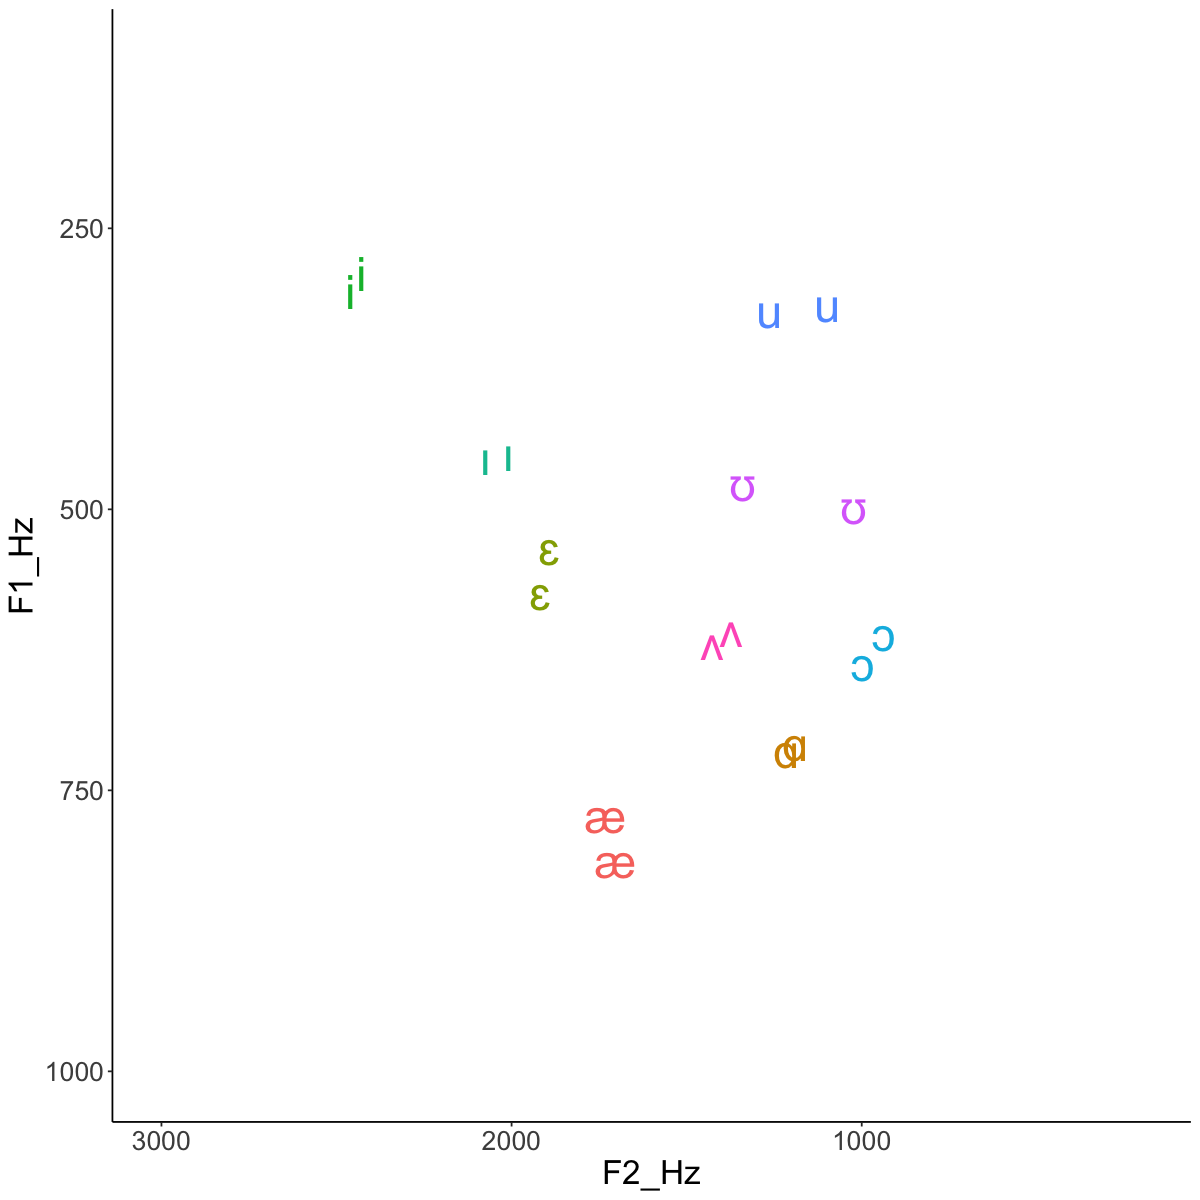
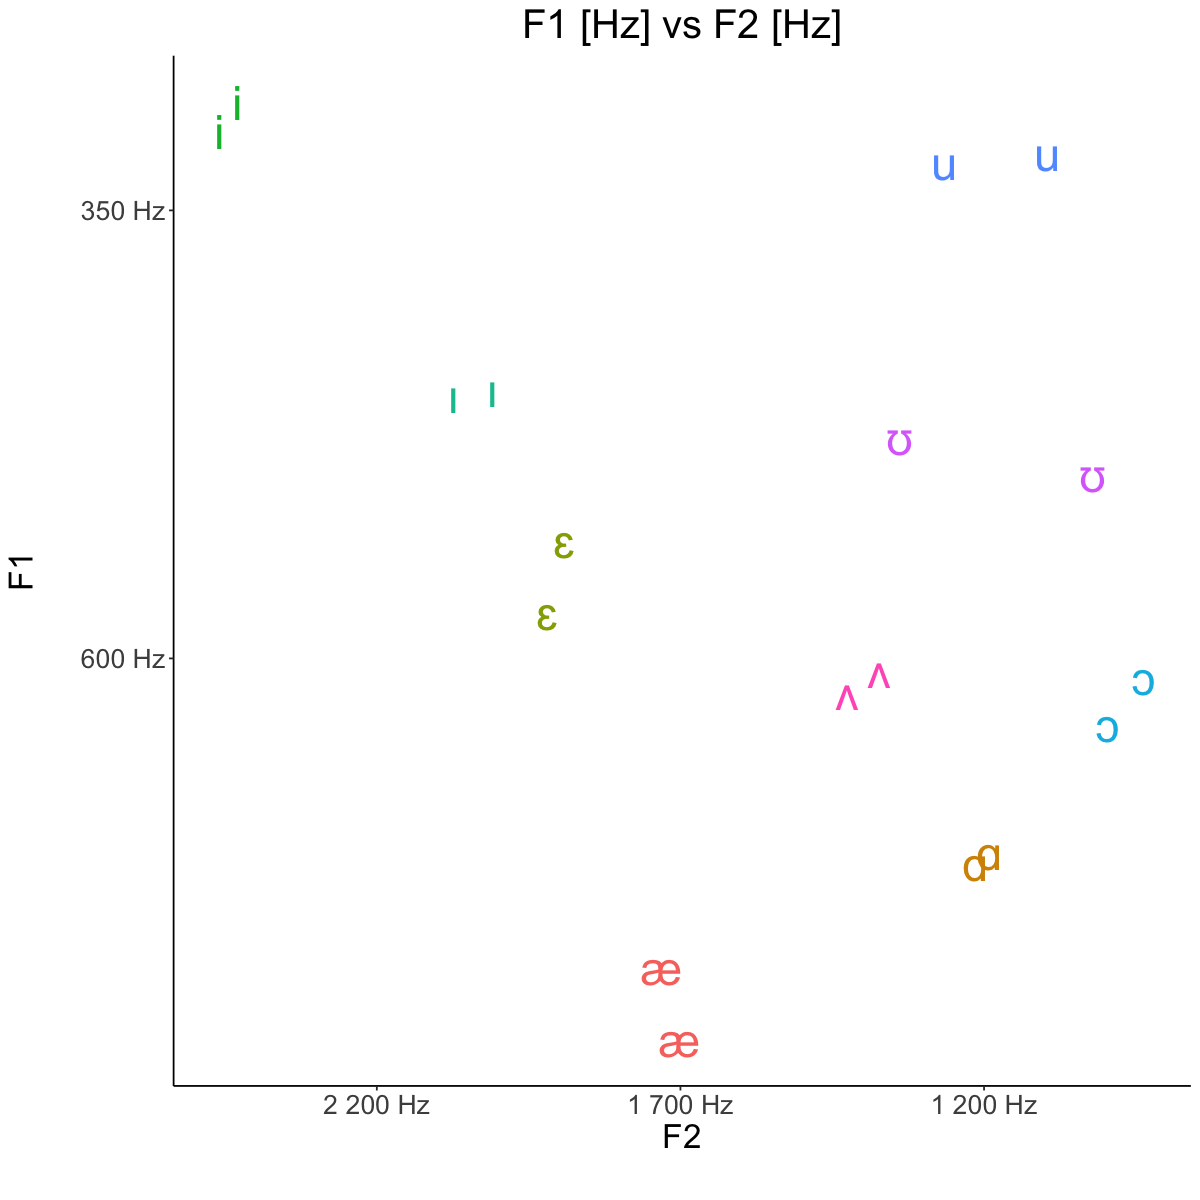
gh-pages update

diff --git a/docs/lab3/lab3.html b/docs/lab3/lab3.html
@@ -505,13 +505,13 @@ title="Fullscreen mode"
 <section id="ae">
 <h3><a class="toc-backref" href="#id9">æ</a><a class="headerlink" href="#ae" title="Permalink to this headline">#</a></h3>
 <div class="sd-tab-set docutils">
-<input checked="checked" id="b90f475b-c227-4ca7-a179-557f681eaf2c" name="bc3d64f1-cde7-45e5-b159-28df1ad83e5b" type="radio">
-</input><label class="sd-tab-label" for="b90f475b-c227-4ca7-a179-557f681eaf2c">
+<input checked="checked" id="59427409-ad6a-4f33-aca7-5d772b9723c6" name="41dedebe-59c8-4f26-9457-32b5082c9b2c" type="radio">
+</input><label class="sd-tab-label" for="59427409-ad6a-4f33-aca7-5d772b9723c6">
 hæd</label><div class="sd-tab-content docutils">
 <p><img alt="" src="../_images/00.png" /></p>
 </div>
-<input id="2550aa11-9862-42bf-a85c-7015e544fd33" name="bc3d64f1-cde7-45e5-b159-28df1ad83e5b" type="radio">
-</input><label class="sd-tab-label" for="2550aa11-9862-42bf-a85c-7015e544fd33">
+<input id="587f78a5-5529-4ee9-a47a-e30b5c9a5852" name="41dedebe-59c8-4f26-9457-32b5082c9b2c" type="radio">
+</input><label class="sd-tab-label" for="587f78a5-5529-4ee9-a47a-e30b5c9a5852">
 bæt</label><div class="sd-tab-content docutils">
 <p><img alt="" src="../_images/09.png" /></p>
 </div>
@@ -520,13 +520,13 @@ bæt</label><div class="sd-tab-content docutils">
 <section id="id1">
 <h3><a class="toc-backref" href="#id10">ɛ</a><a class="headerlink" href="#id1" title="Permalink to this headline">#</a></h3>
 <div class="sd-tab-set docutils">
-<input checked="checked" id="3898b9a2-eff7-4307-80b4-2d3c65c983b3" name="27859440-0435-40cb-a339-9f17e007d54d" type="radio">
-</input><label class="sd-tab-label" for="3898b9a2-eff7-4307-80b4-2d3c65c983b3">
+<input checked="checked" id="2ce1b0a4-5a2c-4a71-970e-6194cb7bc5da" name="8b02a1eb-c24d-4f2a-964a-23789513aa23" type="radio">
+</input><label class="sd-tab-label" for="2ce1b0a4-5a2c-4a71-970e-6194cb7bc5da">
 hɛd</label><div class="sd-tab-content docutils">
 <p><img alt="" src="../_images/01.png" /></p>
 </div>
-<input id="30427472-263d-41cf-bac2-41baee08da1f" name="27859440-0435-40cb-a339-9f17e007d54d" type="radio">
-</input><label class="sd-tab-label" for="30427472-263d-41cf-bac2-41baee08da1f">
+<input id="c674f008-fb3c-4718-92fa-22e264ffc106" name="8b02a1eb-c24d-4f2a-964a-23789513aa23" type="radio">
+</input><label class="sd-tab-label" for="c674f008-fb3c-4718-92fa-22e264ffc106">
 bɛd</label><div class="sd-tab-content docutils">
 <p><img alt="" src="../_images/10.png" /></p>
 </div>
@@ -535,13 +535,13 @@ bɛd</label><div class="sd-tab-content docutils">
 <section id="i">
 <h3><a class="toc-backref" href="#id11">i</a><a class="headerlink" href="#i" title="Permalink to this headline">#</a></h3>
 <div class="sd-tab-set docutils">
-<input checked="checked" id="14cf06ec-302e-436e-b1a9-d8e500655a06" name="222d36fb-0291-41b3-a5c9-38693ac08792" type="radio">
-</input><label class="sd-tab-label" for="14cf06ec-302e-436e-b1a9-d8e500655a06">
+<input checked="checked" id="d097c97e-7eb3-4c6f-b550-326356c9235f" name="69238847-a829-4b9b-9e04-14e5ba8921cb" type="radio">
+</input><label class="sd-tab-label" for="d097c97e-7eb3-4c6f-b550-326356c9235f">
 hid</label><div class="sd-tab-content docutils">
 <p><img alt="" src="../_images/02.png" /></p>
 </div>
-<input id="094bad0a-d577-43eb-89ad-cfeaa92dc98e" name="222d36fb-0291-41b3-a5c9-38693ac08792" type="radio">
-</input><label class="sd-tab-label" for="094bad0a-d577-43eb-89ad-cfeaa92dc98e">
+<input id="1d37800a-a63b-4084-8abc-ef8e0a130f35" name="69238847-a829-4b9b-9e04-14e5ba8921cb" type="radio">
+</input><label class="sd-tab-label" for="1d37800a-a63b-4084-8abc-ef8e0a130f35">
 bid</label><div class="sd-tab-content docutils">
 <p><img alt="" src="../_images/11.png" /></p>
 </div>
@@ -550,13 +550,13 @@ bid</label><div class="sd-tab-content docutils">
 <section id="id2">
 <h3><a class="toc-backref" href="#id12">ɪ</a><a class="headerlink" href="#id2" title="Permalink to this headline">#</a></h3>
 <div class="sd-tab-set docutils">
-<input checked="checked" id="4bfc19ac-e36e-4a30-899d-568a056f9288" name="386a86a6-bd83-467e-9cb5-841dde7a3149" type="radio">
-</input><label class="sd-tab-label" for="4bfc19ac-e36e-4a30-899d-568a056f9288">
+<input checked="checked" id="d1b4955d-e058-492c-ad12-a745861f0265" name="e6d31bc5-d145-45be-bcb2-f25cdb21bb3b" type="radio">
+</input><label class="sd-tab-label" for="d1b4955d-e058-492c-ad12-a745861f0265">
 hɪd</label><div class="sd-tab-content docutils">
 <p><img alt="" src="../_images/03.png" /></p>
 </div>
-<input id="cdf249d1-66b8-4d38-87d6-a2b0f7378284" name="386a86a6-bd83-467e-9cb5-841dde7a3149" type="radio">
-</input><label class="sd-tab-label" for="cdf249d1-66b8-4d38-87d6-a2b0f7378284">
+<input id="a888b891-1513-491c-a44b-ed62dbf1f6d4" name="e6d31bc5-d145-45be-bcb2-f25cdb21bb3b" type="radio">
+</input><label class="sd-tab-label" for="a888b891-1513-491c-a44b-ed62dbf1f6d4">
 bɪd</label><div class="sd-tab-content docutils">
 <p><img alt="" src="../_images/12.png" /></p>
 </div>
@@ -565,13 +565,13 @@ bɪd</label><div class="sd-tab-content docutils">
 <section id="id3">
 <h3><a class="toc-backref" href="#id13">ɑ</a><a class="headerlink" href="#id3" title="Permalink to this headline">#</a></h3>
 <div class="sd-tab-set docutils">
-<input checked="checked" id="da9102c9-7412-48ce-a099-5e8246ed6412" name="68861c16-686f-4a40-9326-b36b6b712546" type="radio">
-</input><label class="sd-tab-label" for="da9102c9-7412-48ce-a099-5e8246ed6412">
+<input checked="checked" id="6339cd83-75d3-4f53-91d3-f6d171964a41" name="ac63cf30-efca-46a7-bcc9-e3e59e6961dc" type="radio">
+</input><label class="sd-tab-label" for="6339cd83-75d3-4f53-91d3-f6d171964a41">
 hɑd</label><div class="sd-tab-content docutils">
 <p><img alt="" src="../_images/04.png" /></p>
 </div>
-<input id="28e57349-117a-4f39-abd6-4c209656d1ca" name="68861c16-686f-4a40-9326-b36b6b712546" type="radio">
-</input><label class="sd-tab-label" for="28e57349-117a-4f39-abd6-4c209656d1ca">
+<input id="f66ff8f1-0cb1-43be-8d3d-e947488f2a4e" name="ac63cf30-efca-46a7-bcc9-e3e59e6961dc" type="radio">
+</input><label class="sd-tab-label" for="f66ff8f1-0cb1-43be-8d3d-e947488f2a4e">
 bɑd</label><div class="sd-tab-content docutils">
 <p><img alt="" src="../_images/13.png" /></p>
 </div>
@@ -580,13 +580,13 @@ bɑd</label><div class="sd-tab-content docutils">
 <section id="id4">
 <h3><a class="toc-backref" href="#id14">ʊ</a><a class="headerlink" href="#id4" title="Permalink to this headline">#</a></h3>
 <div class="sd-tab-set docutils">
-<input checked="checked" id="d5ab4ffc-6516-42fc-bdf3-777234d83f5a" name="5a91622b-910e-4d17-a9db-25c75b739578" type="radio">
-</input><label class="sd-tab-label" for="d5ab4ffc-6516-42fc-bdf3-777234d83f5a">
+<input checked="checked" id="793fafac-7ccc-4397-a0c8-8fa2ff186052" name="1c68036d-507e-44ab-9837-d8851e705a35" type="radio">
+</input><label class="sd-tab-label" for="793fafac-7ccc-4397-a0c8-8fa2ff186052">
 hʊd</label><div class="sd-tab-content docutils">
 <p><img alt="" src="../_images/05.png" /></p>
 </div>
-<input id="44924062-d44e-4593-9959-119be4300cbb" name="5a91622b-910e-4d17-a9db-25c75b739578" type="radio">
-</input><label class="sd-tab-label" for="44924062-d44e-4593-9959-119be4300cbb">
+<input id="98e63952-7874-4f9c-af1e-85c900c283fc" name="1c68036d-507e-44ab-9837-d8851e705a35" type="radio">
+</input><label class="sd-tab-label" for="98e63952-7874-4f9c-af1e-85c900c283fc">
 bʊk</label><div class="sd-tab-content docutils">
 <p><img alt="" src="../_images/14.png" /></p>
 </div>
@@ -595,13 +595,13 @@ bʊk</label><div class="sd-tab-content docutils">
 <section id="id5">
 <h3><a class="toc-backref" href="#id15">ʌ</a><a class="headerlink" href="#id5" title="Permalink to this headline">#</a></h3>
 <div class="sd-tab-set docutils">
-<input checked="checked" id="d7f61246-18c7-4c2d-9001-65cc803dfe6a" name="3ea442e2-15f8-42eb-a46e-4593db1c7e7f" type="radio">
-</input><label class="sd-tab-label" for="d7f61246-18c7-4c2d-9001-65cc803dfe6a">
+<input checked="checked" id="e8c5cb20-f684-42ec-9e19-442cc4276959" name="29f49c78-0203-4829-b396-0e759534eaec" type="radio">
+</input><label class="sd-tab-label" for="e8c5cb20-f684-42ec-9e19-442cc4276959">
 hʌd</label><div class="sd-tab-content docutils">
 <p><img alt="" src="../_images/06.png" /></p>
 </div>
-<input id="74b3f5d5-dbb1-48e2-af00-f0c6807df892" name="3ea442e2-15f8-42eb-a46e-4593db1c7e7f" type="radio">
-</input><label class="sd-tab-label" for="74b3f5d5-dbb1-48e2-af00-f0c6807df892">
+<input id="584ff750-8453-4bec-b368-05e93f7d2186" name="29f49c78-0203-4829-b396-0e759534eaec" type="radio">
+</input><label class="sd-tab-label" for="584ff750-8453-4bec-b368-05e93f7d2186">
 bʌd</label><div class="sd-tab-content docutils">
 <p><img alt="" src="../_images/15.png" /></p>
 </div>
@@ -610,13 +610,13 @@ bʌd</label><div class="sd-tab-content docutils">
 <section id="u">
 <h3><a class="toc-backref" href="#id16">u</a><a class="headerlink" href="#u" title="Permalink to this headline">#</a></h3>
 <div class="sd-tab-set docutils">
-<input checked="checked" id="85b32efb-984f-4bed-a110-4a5d7a93f482" name="02c75d0a-f60f-48dc-a7b6-0aa01b5186ba" type="radio">
-</input><label class="sd-tab-label" for="85b32efb-984f-4bed-a110-4a5d7a93f482">
+<input checked="checked" id="afb28d4e-1b53-4b78-b5c6-7304b32a5804" name="2bb87c69-2f11-4e47-aa1d-4129a32d7da2" type="radio">
+</input><label class="sd-tab-label" for="afb28d4e-1b53-4b78-b5c6-7304b32a5804">
 hud</label><div class="sd-tab-content docutils">
 <p><img alt="" src="../_images/07.png" /></p>
 </div>
-<input id="a27d841c-e6f5-4825-902e-22de9449606a" name="02c75d0a-f60f-48dc-a7b6-0aa01b5186ba" type="radio">
-</input><label class="sd-tab-label" for="a27d841c-e6f5-4825-902e-22de9449606a">
+<input id="e8a9a729-e09c-42b3-8d61-38a147be7abe" name="2bb87c69-2f11-4e47-aa1d-4129a32d7da2" type="radio">
+</input><label class="sd-tab-label" for="e8a9a729-e09c-42b3-8d61-38a147be7abe">
 bud</label><div class="sd-tab-content docutils">
 <p><img alt="" src="../_images/16.png" /></p>
 </div>
@@ -625,13 +625,13 @@ bud</label><div class="sd-tab-content docutils">
 <section id="id6">
 <h3><a class="toc-backref" href="#id17">ɔ</a><a class="headerlink" href="#id6" title="Permalink to this headline">#</a></h3>
 <div class="sd-tab-set docutils">
-<input checked="checked" id="ddea207f-725c-4865-a7a0-507dbd3004c3" name="93ddf3f6-dc2c-458d-b533-085b362e7dac" type="radio">
-</input><label class="sd-tab-label" for="ddea207f-725c-4865-a7a0-507dbd3004c3">
+<input checked="checked" id="7f8c0a8e-69b3-4d4d-b03d-a8a9c215addb" name="5eeae843-aaf2-47cb-b20c-23065c9ee9fe" type="radio">
+</input><label class="sd-tab-label" for="7f8c0a8e-69b3-4d4d-b03d-a8a9c215addb">
 hɔd</label><div class="sd-tab-content docutils">
 <p><img alt="" src="../_images/08.png" /></p>
 </div>
-<input id="83d61f84-93be-49da-b443-cc27ed620453" name="93ddf3f6-dc2c-458d-b533-085b362e7dac" type="radio">
-</input><label class="sd-tab-label" for="83d61f84-93be-49da-b443-cc27ed620453">
+<input id="3c890970-b2e7-4ef1-8653-41a088317dc6" name="5eeae843-aaf2-47cb-b20c-23065c9ee9fe" type="radio">
+</input><label class="sd-tab-label" for="3c890970-b2e7-4ef1-8653-41a088317dc6">
 bɔt</label><div class="sd-tab-content docutils">
 <p><img alt="" src="../_images/17.png" /></p>
 </div>
@@ -1160,13 +1160,21 @@ The following object is masked from ‘package:tidyr’:
 <div class="cell_input docutils container">
 <div class="highlight-r notranslate"><div class="highlight"><pre><span></span><span class="nf">options</span><span class="p">(</span><span class="n">repr.plot.width</span><span class="o">=</span><span class="m">10</span><span class="p">,</span> <span class="n">repr.plot.height</span><span class="o">=</span><span class="m">10</span><span class="p">)</span>
 
-<span class="n">plt</span> <span class="o">&lt;-</span> <span class="nf">ggplot</span><span class="p">(</span><span class="n">data</span><span class="o">=</span><span class="n">obs</span><span class="p">,</span> <span class="nf">aes</span><span class="p">(</span><span class="n">x</span><span class="o">=</span><span class="n">F2_Hz</span><span class="p">,</span> <span class="n">y</span><span class="o">=</span><span class="n">F1_Hz</span><span class="p">,</span> <span class="n">color</span><span class="o">=</span><span class="n">vowel</span><span class="p">,</span> <span class="n">label</span><span class="o">=</span><span class="n">vowel</span><span class="p">))</span> <span class="o">+</span>
+<span class="n">plt</span> <span class="o">&lt;-</span> <span class="nf">ggplot</span><span class="p">(</span><span class="n">obs</span><span class="p">,</span> <span class="nf">aes</span><span class="p">(</span><span class="n">x</span><span class="o">=</span><span class="n">F2_Hz</span><span class="p">,</span> <span class="n">y</span><span class="o">=</span><span class="n">F1_Hz</span><span class="p">,</span> <span class="n">label</span><span class="o">=</span><span class="n">vowel</span><span class="p">,</span> <span class="n">color</span><span class="o">=</span><span class="n">vowel</span><span class="p">))</span> <span class="o">+</span>
   <span class="nf">geom_text</span><span class="p">(</span><span class="n">size</span><span class="o">=</span><span class="m">10</span><span class="p">)</span> <span class="o">+</span>
-  <span class="c1"># scale_x_reverse() +</span>
-  <span class="c1"># scale_y_reverse() +</span>
-  <span class="nf">coord_cartesian</span><span class="p">(</span>
-    <span class="n">xlim</span><span class="o">=</span><span class="nf">c</span><span class="p">(</span><span class="m">3000</span><span class="p">,</span> <span class="m">200</span><span class="p">),</span>
-    <span class="n">ylim</span><span class="o">=</span><span class="nf">c</span><span class="p">(</span><span class="m">1000</span><span class="p">,</span> <span class="m">100</span><span class="p">))</span> <span class="o">+</span>
+  <span class="nf">scale_x_reverse</span><span class="p">(</span>
+      <span class="n">position</span><span class="o">=</span><span class="s">&#39;bottom&#39;</span><span class="p">,</span>
+      <span class="n">labels</span><span class="o">=</span><span class="nf">unit_format</span><span class="p">(</span><span class="n">unit</span><span class="o">=</span><span class="s">&#39;Hz&#39;</span><span class="p">,</span> <span class="n">sep</span><span class="o">=</span><span class="s">&#39; &#39;</span><span class="p">),</span>
+      <span class="n">breaks</span><span class="o">=</span><span class="nf">seq</span><span class="p">(</span><span class="m">200</span><span class="p">,</span> <span class="m">3000</span><span class="p">,</span> <span class="m">500</span><span class="p">))</span> <span class="o">+</span>
+  <span class="nf">scale_y_reverse</span><span class="p">(</span>
+      <span class="n">position</span><span class="o">=</span><span class="s">&#39;left&#39;</span><span class="p">,</span>
+      <span class="n">labels</span><span class="o">=</span><span class="nf">unit_format</span><span class="p">(</span><span class="n">unit</span><span class="o">=</span><span class="s">&#39;Hz&#39;</span><span class="p">,</span> <span class="n">sep</span><span class="o">=</span><span class="s">&#39; &#39;</span><span class="p">),</span>
+      <span class="n">breaks</span><span class="o">=</span><span class="nf">seq</span><span class="p">(</span><span class="m">100</span><span class="p">,</span> <span class="m">1000</span><span class="p">,</span> <span class="m">250</span><span class="p">))</span> <span class="o">+</span>
+  <span class="nf">labs</span><span class="p">(</span>
+    <span class="n">x</span><span class="o">=</span><span class="s">&#39;F2\n&#39;</span><span class="p">,</span>
+    <span class="n">y</span><span class="o">=</span><span class="s">&#39;F1\n&#39;</span><span class="p">,</span>
+    <span class="n">title</span><span class="o">=</span><span class="s">&#39;F1 [Hz] vs F2 [Hz]&#39;</span><span class="p">)</span> <span class="o">+</span>
+  <span class="c1">#stat_ellipse(data=avg, aes(x=F2_Hz, y=F1_Hz), type=&#39;norm&#39;) +</span>
   <span class="nf">theme_classic</span><span class="p">()</span> <span class="o">+</span>
   <span class="nf">theme</span><span class="p">(</span>
     <span class="n">legend.position</span><span class="o">=</span><span class="s">&#39;none&#39;</span><span class="p">,</span>
@@ -1231,7 +1239,7 @@ The following object is masked from ‘package:tidyr’:
   <span class="nf">labs</span><span class="p">(</span>
     <span class="n">x</span><span class="o">=</span><span class="s">&#39;F2\n&#39;</span><span class="p">,</span>
     <span class="n">y</span><span class="o">=</span><span class="s">&#39;F1\n&#39;</span><span class="p">,</span>
-    <span class="n">title</span><span class="o">=</span><span class="s">&#39;Density Plot&#39;</span><span class="p">)</span> <span class="o">+</span>
+    <span class="n">title</span><span class="o">=</span><span class="s">&#39;F1 [Hz] vs F2 [Hz]&#39;</span><span class="p">)</span> <span class="o">+</span>
   <span class="c1">#stat_ellipse(data=avg, aes(x=F2_Hz, y=F1_Hz), type=&#39;norm&#39;) +</span>
   <span class="nf">theme_classic</span><span class="p">()</span> <span class="o">+</span>
   <span class="nf">theme</span><span class="p">(</span>
@@ -1300,7 +1308,7 @@ The following object is masked from ‘package:tidyr’:
   <span class="nf">labs</span><span class="p">(</span>
     <span class="n">x</span><span class="o">=</span><span class="s">&#39;F2\n&#39;</span><span class="p">,</span>
     <span class="n">y</span><span class="o">=</span><span class="s">&#39;F1\n&#39;</span><span class="p">,</span>
-    <span class="n">title</span><span class="o">=</span><span class="s">&#39;Density Plot&#39;</span><span class="p">)</span> <span class="o">+</span>
+    <span class="n">title</span><span class="o">=</span><span class="s">&#39;F1 [barks] vs F2 [barks]&#39;</span><span class="p">)</span> <span class="o">+</span>
   <span class="c1">#stat_ellipse(data=barks, aes(x=F2_Hz, y=F1_Hz), type=&#39;norm&#39;) +</span>
   <span class="nf">theme_classic</span><span class="p">()</span> <span class="o">+</span>
   <span class="nf">theme</span><span class="p">(</span>
